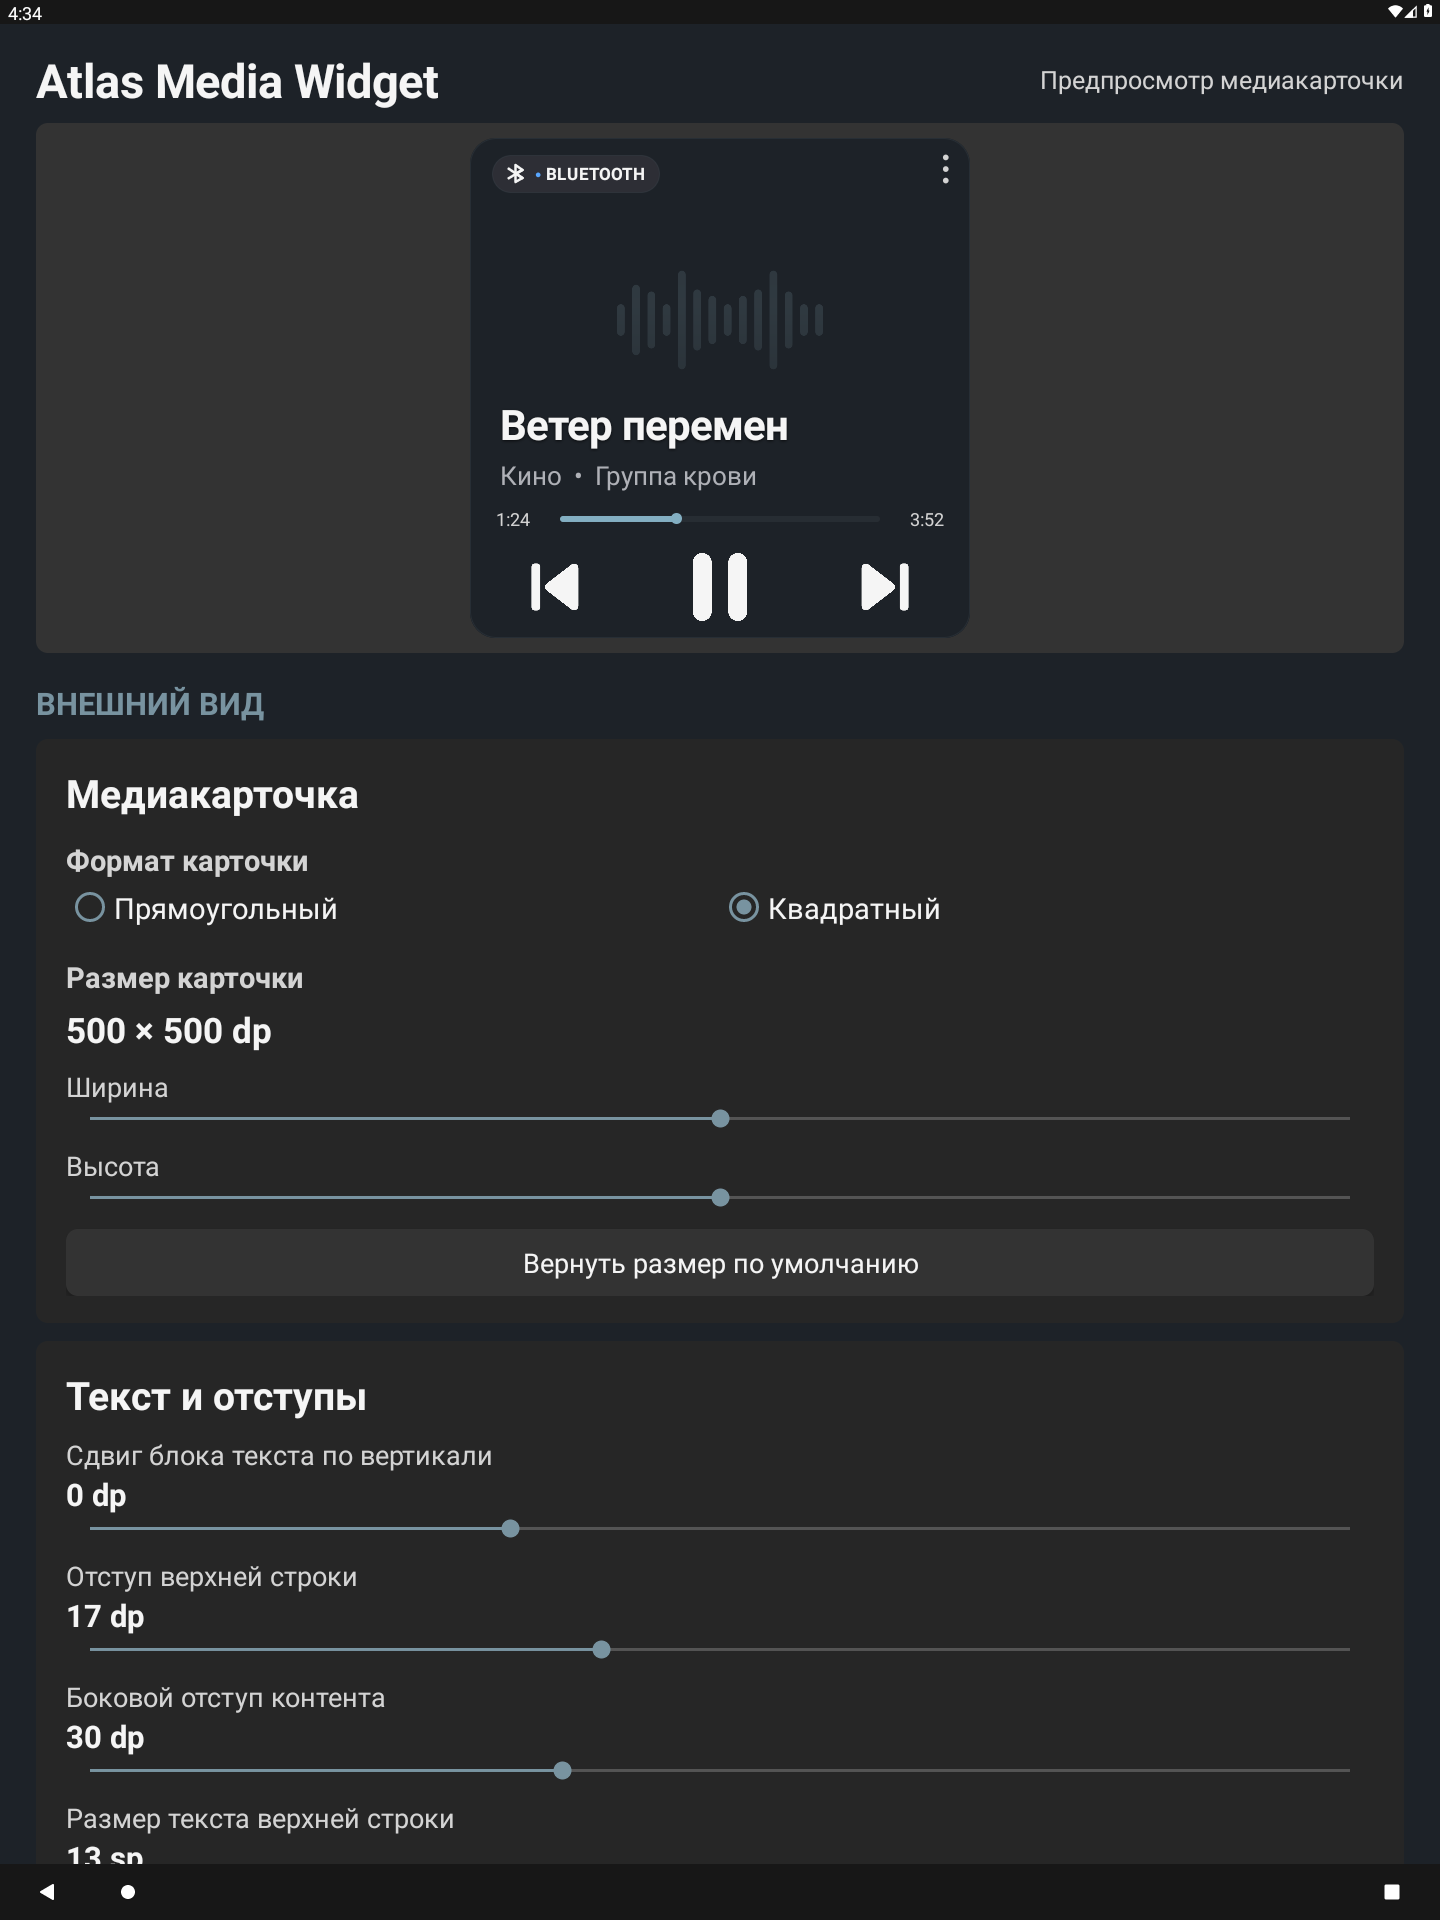
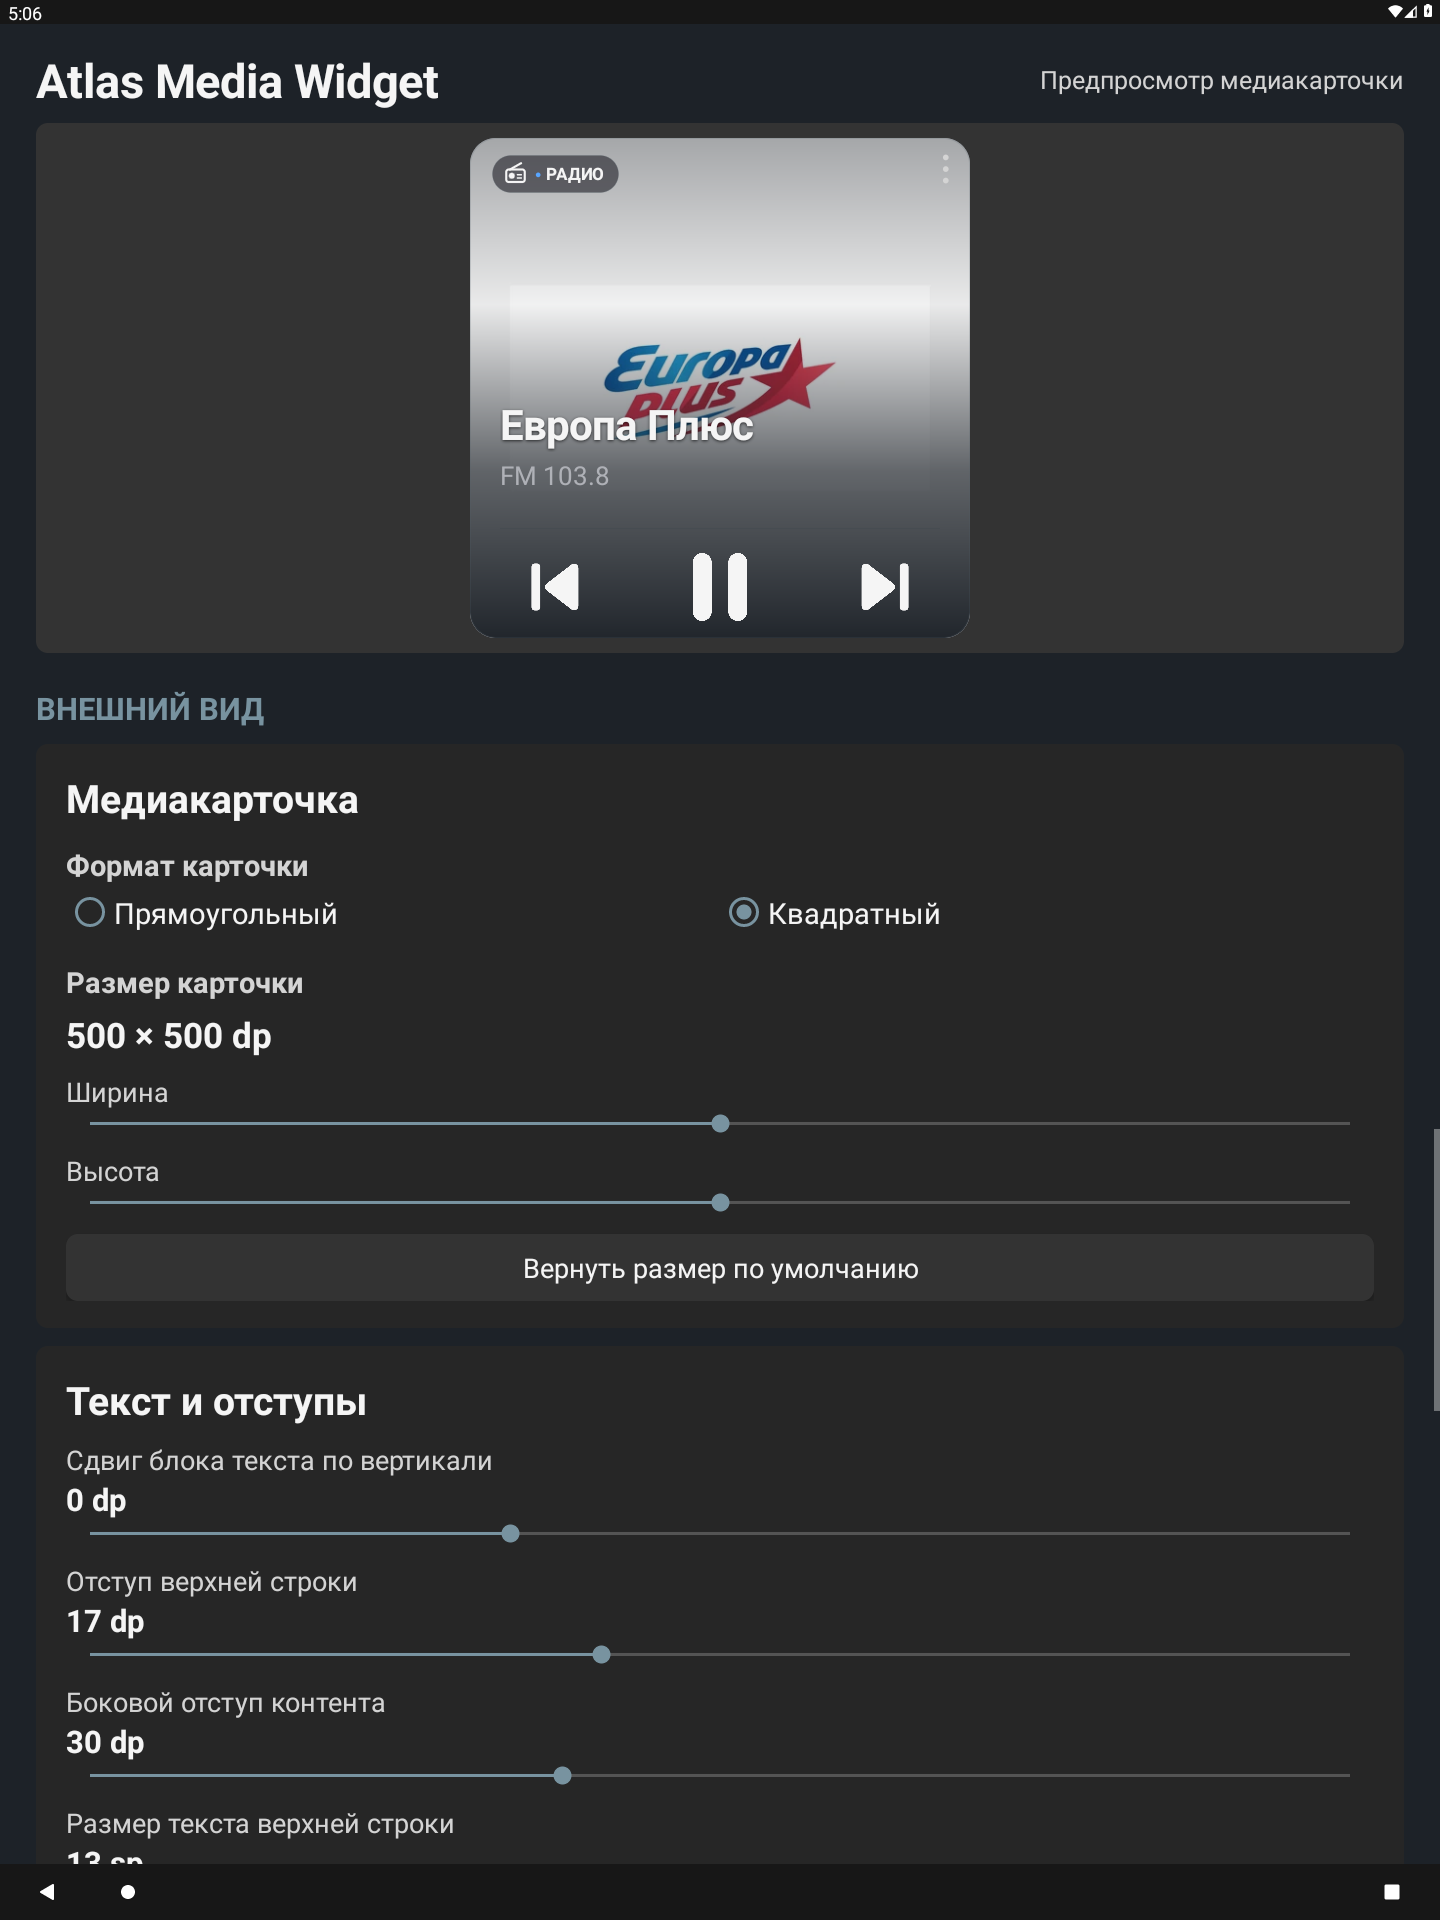
docs: show active Bluetooth and radio states

diff --git a/README.md b/README.md
@@ -11,22 +11,33 @@
 ## Интерфейс
 
 Скриншоты сняты с версии `1.0.20 (21)` на Android 11 AVD в целевом разрешении 1440×1920.
-Предпросмотр в настройках использует встроенные демонстрационные метаданные. На кадре реального
-overlay показано явное состояние недоступности, потому что в AVD не запущен совместимый сервис
-GInputBridge `mediaapi`.
-
-<p align="center">
-  <a href="docs/images/overlay-home.webp">
-    <img src="docs/images/overlay-home.webp" width="720" alt="Atlas Media Widget поверх домашнего экрана">
-  </a>
-</p>
-
-<p align="center"><em>Реальный overlay поверх HOME в состоянии недоступного медиасервиса.</em></p>
+Для визуальной демонстрации в штатный `MediaCardView` поданы тестовые snapshots активных
+источников: музыкальный трек через Bluetooth и Европа Плюс на FM 103.8. Обложки, градиенты,
+метаданные, progress и transport controls отрисованы самим приложением.
 
 <table>
   <tr>
-    <th>Основные настройки и живой предпросмотр</th>
-    <th>Настройка формата, размера, текста и отступов</th>
+    <th>Bluetooth · Ночной город</th>
+    <th>Радио · Европа Плюс · FM 103.8</th>
+  </tr>
+  <tr>
+    <td>
+      <a href="docs/images/media-bluetooth.webp">
+        <img src="docs/images/media-bluetooth.webp" alt="Активный Bluetooth с музыкальной обложкой">
+      </a>
+    </td>
+    <td>
+      <a href="docs/images/media-radio.webp">
+        <img src="docs/images/media-radio.webp" alt="Активное радио Европа Плюс с обложкой">
+      </a>
+    </td>
+  </tr>
+</table>
+
+<table>
+  <tr>
+    <th>Основные настройки · Bluetooth</th>
+    <th>Внешний вид · Радио</th>
   </tr>
   <tr>
     <td>
